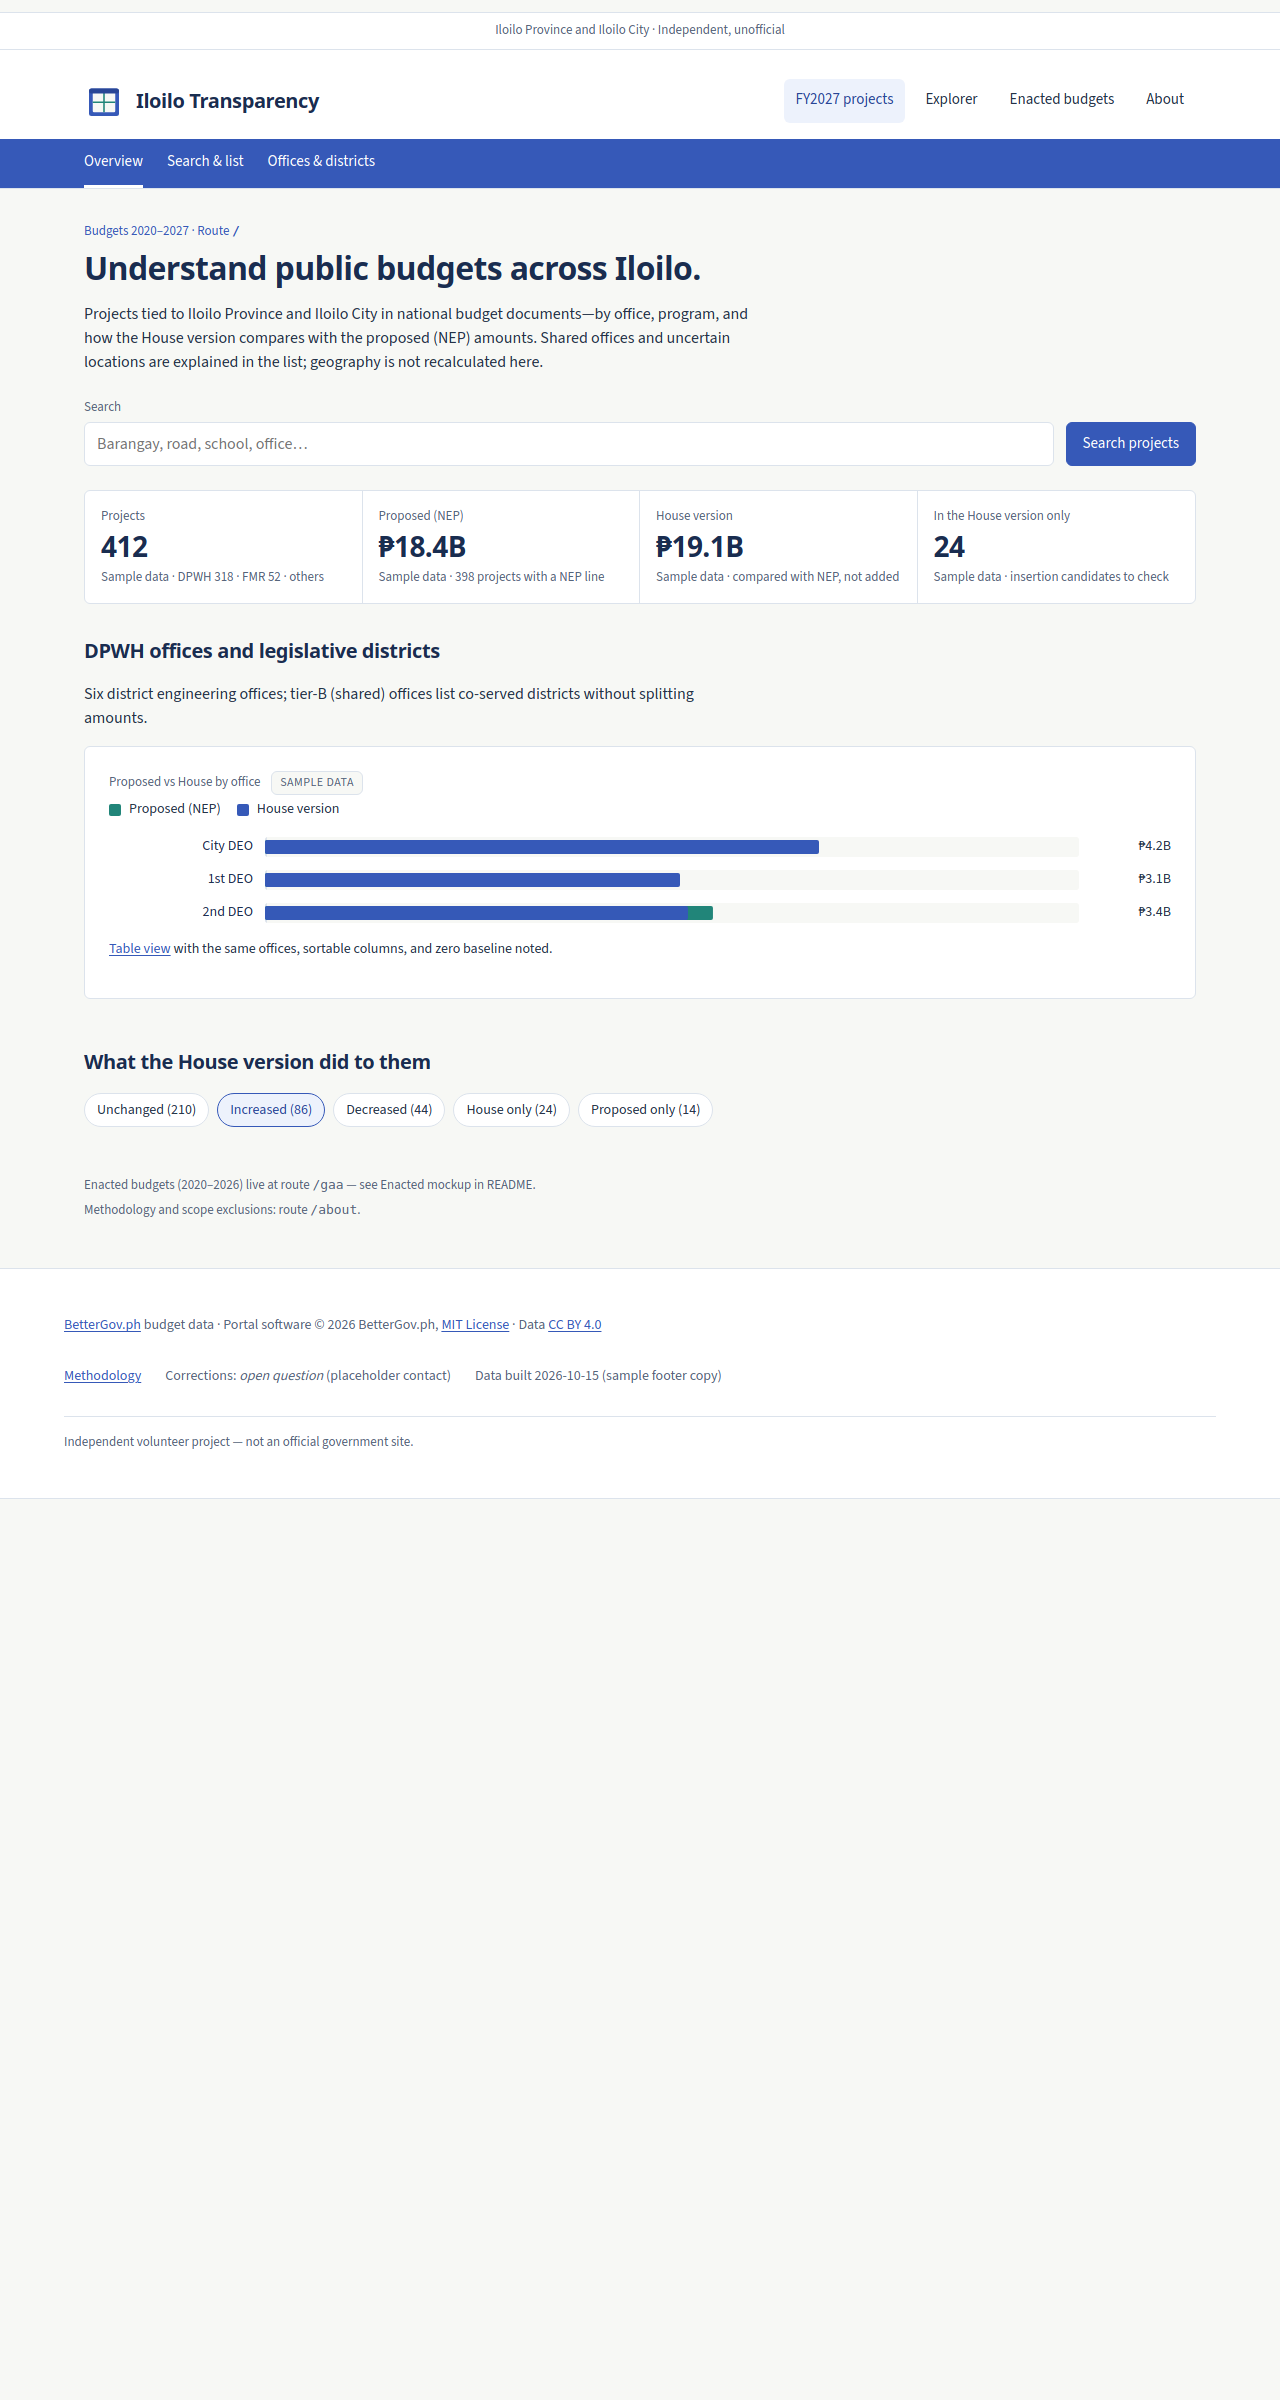
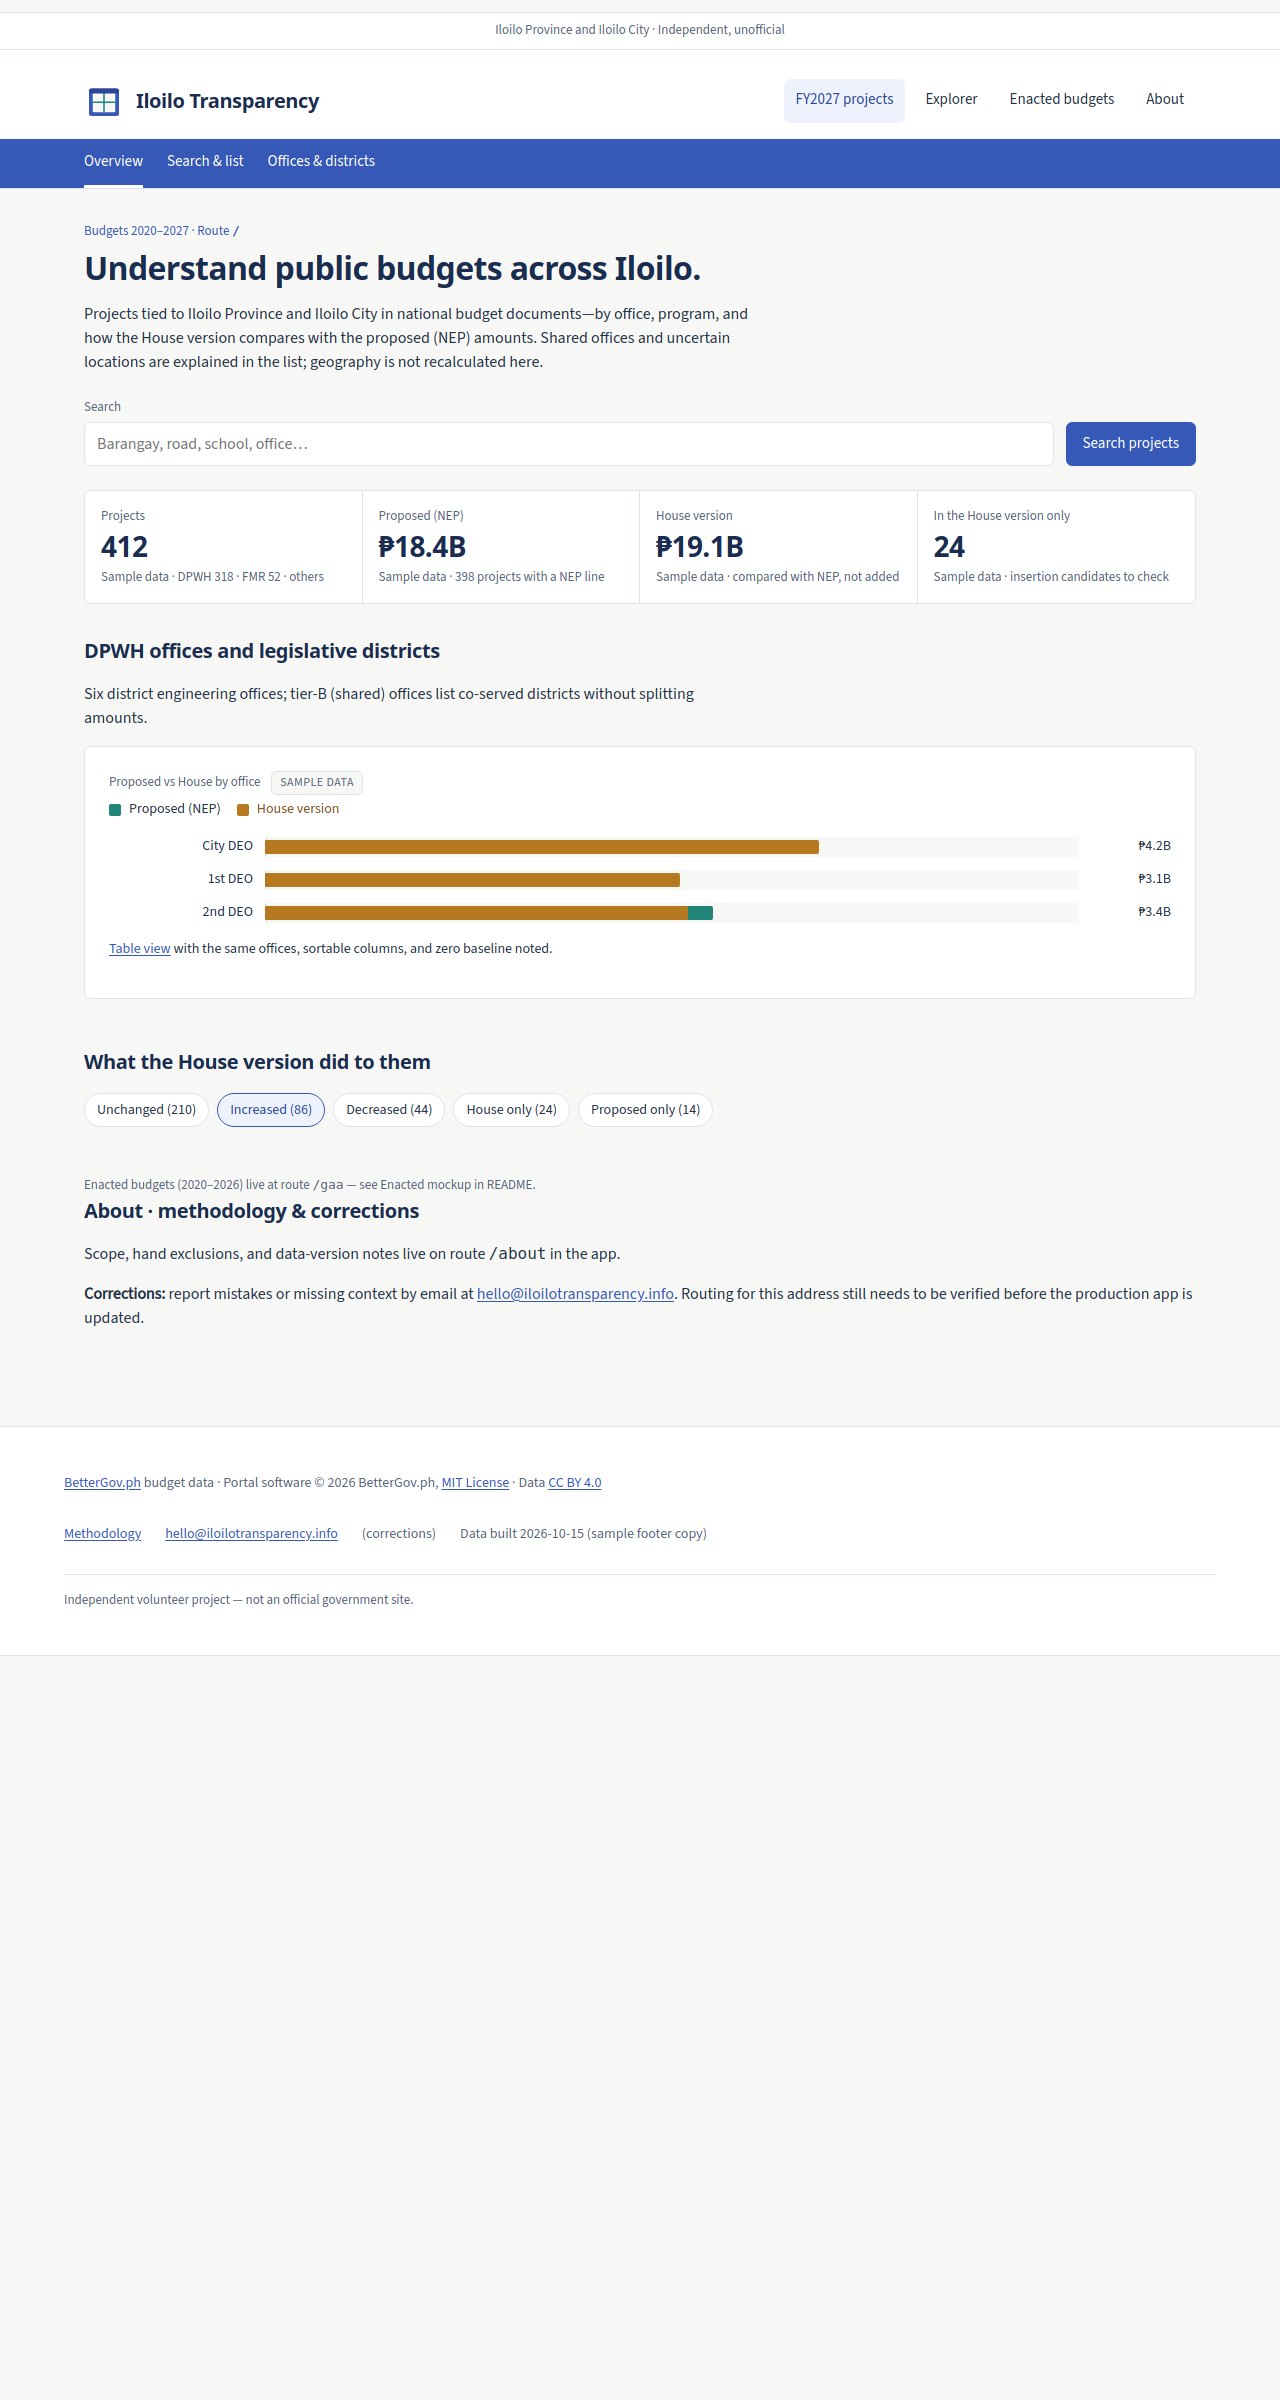
R0: corrections mailto and teal/amber chart series
Use hello@iloilotransparency.info in mockup footers and About copy.
Reserve blue for chrome; House series uses amber fills in charts.

Changed region(s): [[0.1875, 0.3438, 0.625, 0.4062], [0.0625, 0.5, 0.4688, 0.5625], [0.0625, 0.5938, 0.375, 0.625]]

diff --git a/design/overview-desktop.html b/design/overview-desktop.html
@@ -82,7 +82,7 @@
             <p class="stat-label">Proposed vs House by office <span class="sample-badge">Sample data</span></p>
             <div class="chart-legend">
               <span class="legend-item"><span class="legend-swatch legend-swatch--nep" aria-hidden="true"></span><span class="legend-label">Proposed (NEP)</span></span>
-              <span class="legend-item"><span class="legend-swatch legend-swatch--house" aria-hidden="true"></span><span class="legend-label">House version</span></span>
+              <span class="legend-item"><span class="legend-swatch legend-swatch--house" aria-hidden="true"></span><span class="legend-label legend-label--amber">House version</span></span>
             </div>
             <div class="bar-chart" role="img" aria-label="Sample horizontal bars comparing proposed and House amounts by office">
               <div class="bar-row">
@@ -117,7 +117,17 @@
         </section>
 
         <p class="stat-note" id="enacted-ref">Enacted budgets (2020–2026) live at route <code>/gaa</code> — see Enacted mockup in README.</p>
-        <p class="stat-note" id="about-ref">Methodology and scope exclusions: route <code>/about</code>.</p>
+        <section class="section" id="about-ref" aria-labelledby="about-h">
+          <h2 id="about-h" class="section-title">About · methodology &amp; corrections</h2>
+          <p class="lede" style="margin-bottom: 0.75rem">
+            Scope, hand exclusions, and data-version notes live on route <code>/about</code> in the app.
+          </p>
+          <p>
+            <strong>Corrections:</strong> report mistakes or missing context by email at
+            <a href="mailto:hello@iloilotransparency.info">hello@iloilotransparency.info</a>.
+            Routing for this address still needs to be verified before the production app is updated.
+          </p>
+        </section>
       </main>
 
       <footer class="site-footer">
@@ -129,7 +139,7 @@
           </p>
           <div class="footer-links">
             <a href="overview-desktop.html#about-ref">Methodology</a>
-            <span>Corrections: <em>open question</em> (placeholder contact)</span>
+            <a href="mailto:hello@iloilotransparency.info">hello@iloilotransparency.info</a> (corrections)
             <span>Data built 2026-10-15 (sample footer copy)</span>
           </div>
           <p class="footer-disclosure">Independent volunteer project — not an official government site.</p>

diff --git a/design/components.html b/design/components.html
@@ -99,8 +99,7 @@
           <h2>Horizontal bar chart (CSS/SVG) <span class="sample-badge">Sample</span></h2>
           <div class="chart-legend">
             <span class="legend-item"><span class="legend-swatch legend-swatch--nep"></span><span class="legend-label">Proposed (NEP)</span></span>
-            <span class="legend-item"><span class="legend-swatch legend-swatch--house"></span><span class="legend-label">House version</span></span>
-            <span class="legend-item"><span class="legend-swatch" style="background: var(--color-amber-fill)"></span><span class="legend-label legend-label--amber">Amber fill · label uses --color-amber-text</span></span>
+            <span class="legend-item"><span class="legend-swatch legend-swatch--house"></span><span class="legend-label legend-label--amber">House version</span></span>
           </div>
           <div class="bar-chart">
             <div class="bar-row">
@@ -135,6 +134,11 @@
           </div>
         </section>
       </main>
+      <footer class="site-footer">
+        <div class="footer-inner">
+          <p><a href="https://bettergov.ph/">BetterGov.ph</a> · <a href="mailto:hello@iloilotransparency.info">hello@iloilotransparency.info</a></p>
+        </div>
+      </footer>
     </div>
   </body>
 </html>

diff --git a/design/overview-mobile.html b/design/overview-mobile.html
@@ -85,7 +85,8 @@
       <footer class="site-footer">
         <div class="footer-inner">
           <p><a href="https://bettergov.ph/">BetterGov.ph</a> · <a href="/LICENSE.txt">MIT</a> · <a href="https://creativecommons.org/licenses/by/4.0/">CC BY 4.0</a></p>
-          <p class="footer-disclosure">Independent, unofficial · Corrections: open question</p>
+          <p><a href="overview-desktop.html#about-ref">Methodology</a> · <a href="mailto:hello@iloilotransparency.info">hello@iloilotransparency.info</a></p>
+          <p class="footer-disclosure">Independent, unofficial</p>
         </div>
       </footer>
     </div>

diff --git a/design/explorer.html b/design/explorer.html
@@ -147,6 +147,7 @@
       <footer class="site-footer">
         <div class="footer-inner">
           <p><a href="https://bettergov.ph/">BetterGov.ph</a> · <a href="/LICENSE.txt">MIT</a> · <a href="https://creativecommons.org/licenses/by/4.0/">CC BY 4.0</a></p>
+          <p><a href="overview-desktop.html#about-ref">Methodology</a> · <a href="mailto:hello@iloilotransparency.info">hello@iloilotransparency.info</a></p>
           <p class="footer-disclosure">Independent, unofficial</p>
         </div>
       </footer>

diff --git a/design/mockups.css b/design/mockups.css
@@ -410,7 +410,7 @@ select:focus-visible {
 }
 
 .legend-swatch--house {
-  background: var(--color-primary);
+  background: var(--color-amber-fill);
 }
 
 .legend-label {
@@ -476,9 +476,9 @@ select:focus-visible {
 }
 
 .bar-fill--house {
-  background: var(--color-primary);
+  background: var(--color-amber-fill);
   left: 0;
-  opacity: 0.85;
+  opacity: 0.92;
   z-index: 3;
 }
 

diff --git a/design/logos.html b/design/logos.html
@@ -54,5 +54,10 @@
 
       <p><a href="overview-desktop.html">← Mockups</a></p>
     </main>
+    <footer class="site-footer">
+      <div class="footer-inner">
+        <p><a href="mailto:hello@iloilotransparency.info">hello@iloilotransparency.info</a> · corrections</p>
+      </div>
+    </footer>
   </body>
 </html>

diff --git a/design/README.md b/design/README.md
@@ -32,10 +32,15 @@ Labeling: **NEP → “Proposed (NEP)”**; **House bill → “House version”
 
 ## Chart plan
 
-- **Horizontal bars by DPWH office** (and district cards where data exists): grouped **proposed (teal)** vs **House (blue)**, shared zero baseline, no stacked NEP+House totals.
+- **Colour roles:** blue is only for nav, links, selection, and primary actions. **Data series:** proposed (NEP) **teal** (`#218579`); **House version amber** (fills `#B7791F`, labels `#7A5216`) — each labelled, never colour alone.
+- **Horizontal bars by DPWH office** (and district cards where data exists): grouped **proposed (teal)** vs **House (amber)**, shared zero baseline, no stacked NEP+House totals.
 - **History:** only years/stages the API compares on the same basis (Enacted page: 2020–22, 2023–25, 2026, and 2027’s two versions where both exist — skip incomparable series, e.g. Iloilo 6th DEO before 2025 per About reading note).
 - **Accessibility:** status uses dot + text; teal/amber never alone. Amber **fills** use `#B7791F`; **text** uses `#7A5216` (see contrast).
 - **Alternative:** sortable table with the same columns as the chart (office, proposed, House, delta, held/residual note) — link from chart footer.
+
+## Corrections (About page)
+
+The production **About** route (`/about`) should include a short **Corrections** section: invite readers to email **hello@iloilotransparency.info** (`mailto:`) for factual corrections or scope questions. Footer links on every page point to the same address. **Note:** inbox routing for this address still needs to be verified before `src/` footer/About code is changed.
 
 ## Dependencies (proposed)
 
@@ -78,18 +83,16 @@ GAA responses use `meta` with `dataset: 'gaa'` (years, optional `matched` counts
 | Amber `#B7791F` text on white | 3.64:1 | **Fail** | **Decision:** restrict `#B7791F` to **chart/chip fills**; use **`--color-amber-text: #7A5216`** (6.89:1 on white) for labels |
 | Amber text `#7A5216` on white | 6.89:1 | Pass | Adopt in tokens |
 | Body on selection `#EDF2FC` | 11.53:1 | Pass | |
-| Teal/primary bar fills on white | 4.47:1 / 6.41:1 | Pass non-text | Adjacent blue/teal bars also need ≥3:1 — separate tracks or legend required |
+| Teal / amber bar fills on white | 4.47:1 / 3.64:1 | Pass non-text (3:1) | Adjacent teal/amber bars need ≥3:1 separation — offset tracks or legend; amber text uses `#7A5216` |
 | Border `#DCE3EC` on white | 1.29:1 | N/A | Decorative rules only |
 
 ## Open questions (Mark)
 
 1. **Logo direction** — window, bridge, or IT monogram (or wordmark-only)?
-2. **Corrections channel** — footer previously pointed to GitHub Issues; Issues is disabled on the fork and GitHub links were removed. Email, form, or BetterGov reporting when enabled?
-3. **City vs Province split** — disabled “after classification” chip until geography is in scope?
-4. **Office chart vs filters** — should list filters recompute office bars, or stay scope-wide with a clear label?
-5. **Teal for proposed** — confirm teal/blue encoding vs current status-dot colours in production CSS.
-6. **Enacted mockup** — worth a dedicated `design/enacted.html` in R1?
-7. **Self-hosted fonts** — OK to add WOFF2 under `public/fonts/` in a later PR?
+2. **City vs Province split** — disabled “after classification” chip until geography is in scope?
+3. **Office chart vs filters** — should list filters recompute office bars, or stay scope-wide with a clear label?
+4. **Enacted mockup** — worth a dedicated `design/enacted.html` in R1?
+5. **Self-hosted fonts** — OK to add WOFF2 under `public/fonts/` in a later PR?
 
 ## Files
 
